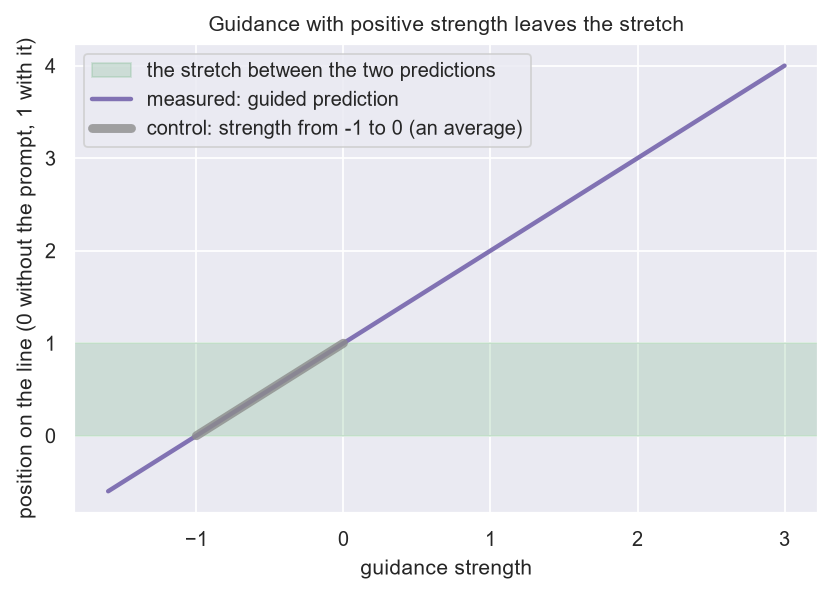
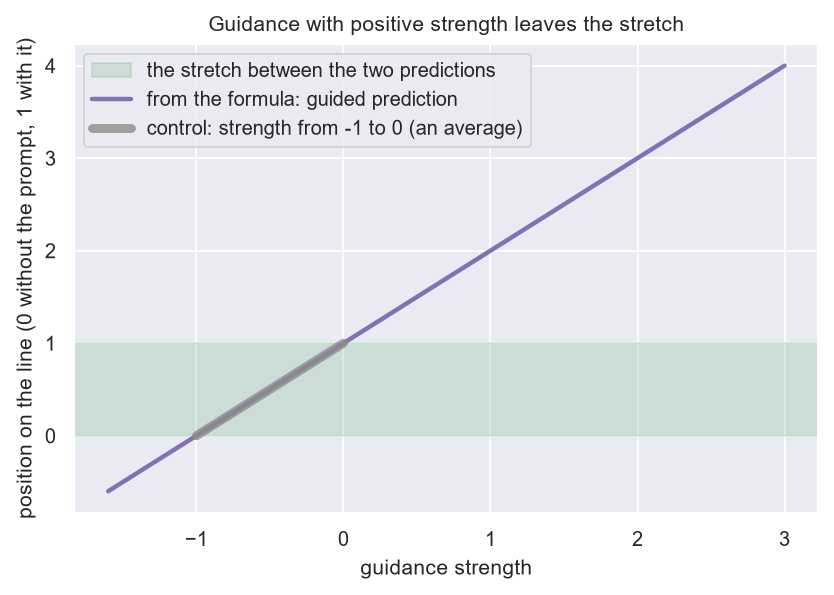
Fourier version of spectral bias: a Fourier series has the cosine kernel; chapter 38 notebook audit
- lean: LIFT_BY_FOURIER_SERIES, inner_liftByFourierSeries (its kernel is the sum of
  squared amplitudes times cosines of the gap) and
  fourierSeries_direction_is_stretched, which assumes nothing about the kernel.
- Chapter 18: the step that was argued is now proved.
- Chapter 38 notebook: audit against the new rules.

Changed region(s): [[0.1559, 0.1513, 0.5612, 0.1815]]

diff --git a/book/38-mixing.md b/book/38-mixing.md
@@ -133,7 +133,7 @@ the guided prediction lies off the stretch between them.
 The guided move is `1 + guidance_strength` times the plain one
 (`guidance_sub`, `norm_guidance_sub`).
 
-The line is **measured**: the position of the guided prediction on the line through the two predictions, 0 for the prediction without the prompt and 1 for the one with it. For a positive strength it is above 1, off the stretch. For strengths from -1 to 0 the weights are both non-negative, an average, and it stays on the stretch.
+The line is **from the formula**: the position of the guided prediction on the line through the two predictions, 0 for the prediction without the prompt and 1 for the one with it. For a positive strength it is above 1, off the stretch. For strengths from -1 to 0 the weights are both non-negative, an average, and it stays on the stretch.
 
 ![Position of the guided prediction on the line through the two predictions against guidance strength, rising above the shaded stretch from 0 to 1 for positive strength, with strengths from -1 to 0 inside it](figures/38-guidance-off-the-stretch.png)
 
@@ -208,19 +208,22 @@ average, and it can leave the region an average must stay in.
 
 ## Run it yourself
 
-[`ch38_mixing.ipynb`](../experiments/part6/ch38_mixing.ipynb) checks each statement on small models with 22 `[PASS]` lines. These are **measured**; an experiment is
-evidence, not a proof. Graph layer: in 300 random graphs on 5 nodes with floor 0.1, every layer through 8 left a spread
-at most `0.5^k` times the range, the worst spread being 0.724 of the bound after a layer; a layer built to be as bad as
-allowed reached the bound exactly (5.0 against 5.0). With zeros in the weights the spread stayed at 10 after 8 layers,
-where the bound would be 0.039. Noising: ten steps at rate 0.1 left signal 0.3487 and noise 0.6513, and the closed form
-matched to 4e-16 for four rates up to 50 steps; a schedule with rates 0.02 and 0.18 alternating left 0.3351, not 0.3487.
-Guidance: in 12 000 cases with positive strength the guided point was never on the stretch (nearest 0.119 away) and
-moved `1 + strength` times the plain step to 3e-15; strengths from -1 to 0 stayed on it. Averaging over shifts gave the same value at every shift of an input
-and a change per distance of at most 1.084, under the model's own constant 2; averaging over scalings, which keep no
-distances, gave 1.831 where the model's constant was 1. A constant baseline changed the average push by at most
-2e-16; a baseline equal to the reward changed it by 0.078. Squared error was least at 34.33 and absolute error at 2
-for the labels 1, 2, 100. The mean square overlap was exact to 3e-16 in 10 dimensions, and 0.00998 against 0.01
-in 100 (standard error 3e-5); with two coordinates made equal it was 1.960 where the formula gives 0.980.
+[`ch38_mixing.ipynb`](../experiments/part6/ch38_mixing.ipynb) checks each statement on small models with 21 `[PASS]` lines. An experiment is
+evidence, not a proof. Numbers marked **measured** came from running a model; **from the formula** means the chapter's own
+formula was evaluated; two checks are by construction and are not evidence. Graph layer (**measured**): in 300 random graphs on 5 nodes with
+floor 0.1, every layer through 8 left a spread at most `0.5^k` times the range, the worst spread being 0.724 of the
+bound after a layer; a layer built to be as bad as allowed reached the bound (5.0000 against 5.0000). With zeros in the
+weights the spread stayed at 10.000 after 8 layers, where the bound would be 0.0391. Noising: the sampled noising
+(**measured**, 400 000 draws) left a signal share of 0.3494 after ten steps at rate 0.1, against 0.9^10 = 0.3487.
+Iterating the step's formula matched the closed form to 4.1e-16 (**from the formula**), and a schedule with rates 0.02
+and 0.18 alternating left 0.3351, not 0.3487 (**from the formula**). Guidance (**from the formula**): in 12 000 cases with positive strength the
+guided point was never on the stretch (nearest 0.119 away); strengths from -1 to 0 stayed on it. That the guided move is
+`1 + strength` times the plain step is by construction. Averaging over shifts (**measured**) gave the same value at every shift
+of an input, and a change per distance of at most 1.084, under the model's own constant 2; averaging over scalings,
+which keep no distances, gave 1.831 where the model's constant was 1. A constant baseline changed the average push by at
+most 2.2e-16; a baseline equal to the reward changed it by 0.078. Squared error was least at 34.33 and absolute error at 2
+for the labels 1, 2, 100. The mean square overlap was exact to 3.0e-16 in 10 dimensions, and 0.00998 against 0.01
+in 100 (standard error 3.1e-05); with two coordinates made equal it was 1.960 where the formula gives 0.980.
 
 ```bash
 jupyter nbconvert --to notebook --execute --inplace experiments/part6/ch38_mixing.ipynb

diff --git a/book/proposals/proposal-20261117.md b/book/proposals/proposal-20261117.md
@@ -4522,8 +4522,9 @@ above say "Local note, not committed"; the file has been committed and public si
   kernel (`norm_sq_residual_iterate_eq_sum`), and the Fourier version
   (`fourier_direction_is_stretched`, `fourier_spectral_bias`): on evenly spaced inputs the
   sampled wave of frequency `m` has strength `N / 2 × a_m²`. The hypothesis is the kernel, a
-  sum of cosines of the gap. A lift with several frequencies that has this kernel is not
-  built in Lean; the chapter says **argued** there.
+  sum of cosines of the gap. `LIFT_BY_FOURIER_SERIES` is a lift with that kernel
+  (`inner_liftByFourierSeries`), so `fourierSeries_direction_is_stretched` assumes nothing
+  about the kernel.
 - **Chapter 17.** `prod_cos_le_cos_average_pow`: for any number of plates, each turning by at
   most a quarter turn, the equal split keeps the most. The "more than two plates" item is no
   longer open. The balanced-layers item was not tried.
@@ -4573,7 +4574,7 @@ Chapters 16, 20, 39 and 44 were sent back to their helpers with the list. Chapte
 false sentence (the bound is not exact for two choices). `experiments/WRITING.md` now has
 three rules against these faults.
 
-Done after the review, the same day: the helpers of chapters 14, 15, 17 to 37 and 43
+Done after the review, the same day: the helpers of chapters 14, 15, 17 to 38 and 43
 audited their own notebooks against the three rules. Checks that hold by construction are
 now printed as such and not counted, numbers from a formula are called "from the formula",
 and every cited number is printed. The two findings for chapter 28 and the three for
@@ -4581,7 +4582,7 @@ chapter 34 are fixed. This was a self-audit, not a second reader.
 
 Still owed:
 
-- **Not yet audited:** the notebooks of chapters 38, 40 to 42 and 45
+- **Not yet audited:** the notebooks of chapters 40 to 42 and 45
   to 47. Expect the same faults. Send each helper the same message, or use one reviewer per
   part with the six questions.
 - **A second reader** for the notebooks that were only self-audited, starting with chapters

diff --git a/book/18-strong-directions-first.md b/book/18-strong-directions-first.md
@@ -203,10 +203,11 @@ In one case the directions can be written down, and they are waves.
 Take `input_count` inputs, evenly spaced over one period. Take a model
 whose kernel depends only on the gap between two inputs and is a sum of
 cosines of that gap, where frequency `k` enters with the square of
-`amplitude k`. The Fourier lift of chapter 11 has such a kernel for one
-frequency (`liftKernel_fourierLift`). Several frequencies side by side
-add their cosines, which is **argued** here. Keep every frequency below
-half the number of inputs.
+`amplitude k`. A Fourier series has such a kernel. Its features are
+`amplitude k × cos(k × input)` and `amplitude k × sin(k × input)` for
+each frequency `k`, and the overlap of the features of two inputs is the
+sum of `amplitude k ² × cos(k × gap)` (`inner_liftByFourierSeries`). Keep
+every frequency below half the number of inputs.
 
 > Then the wave of a given frequency, read off at the inputs, is a
 > direction the kernel only stretches. Its strength is half the number
@@ -254,6 +255,8 @@ So `spectral_bias` applies to the wave, with that strength.
 `fourier_spectral_bias` states the factor: each step multiplies the
 error along the wave by
 `1 − learning_rate × input_count / 2 × amplitude frequency ²`.
+`fourierSeries_direction_is_stretched` is the same statement for the
+Fourier series itself, with nothing assumed about the kernel.
 
 **An example.** Take 8 inputs, amplitude 1 at frequency 1 and amplitude
 0.1 at frequency 3. The strengths are `8 / 2 × 1 = 4` and
